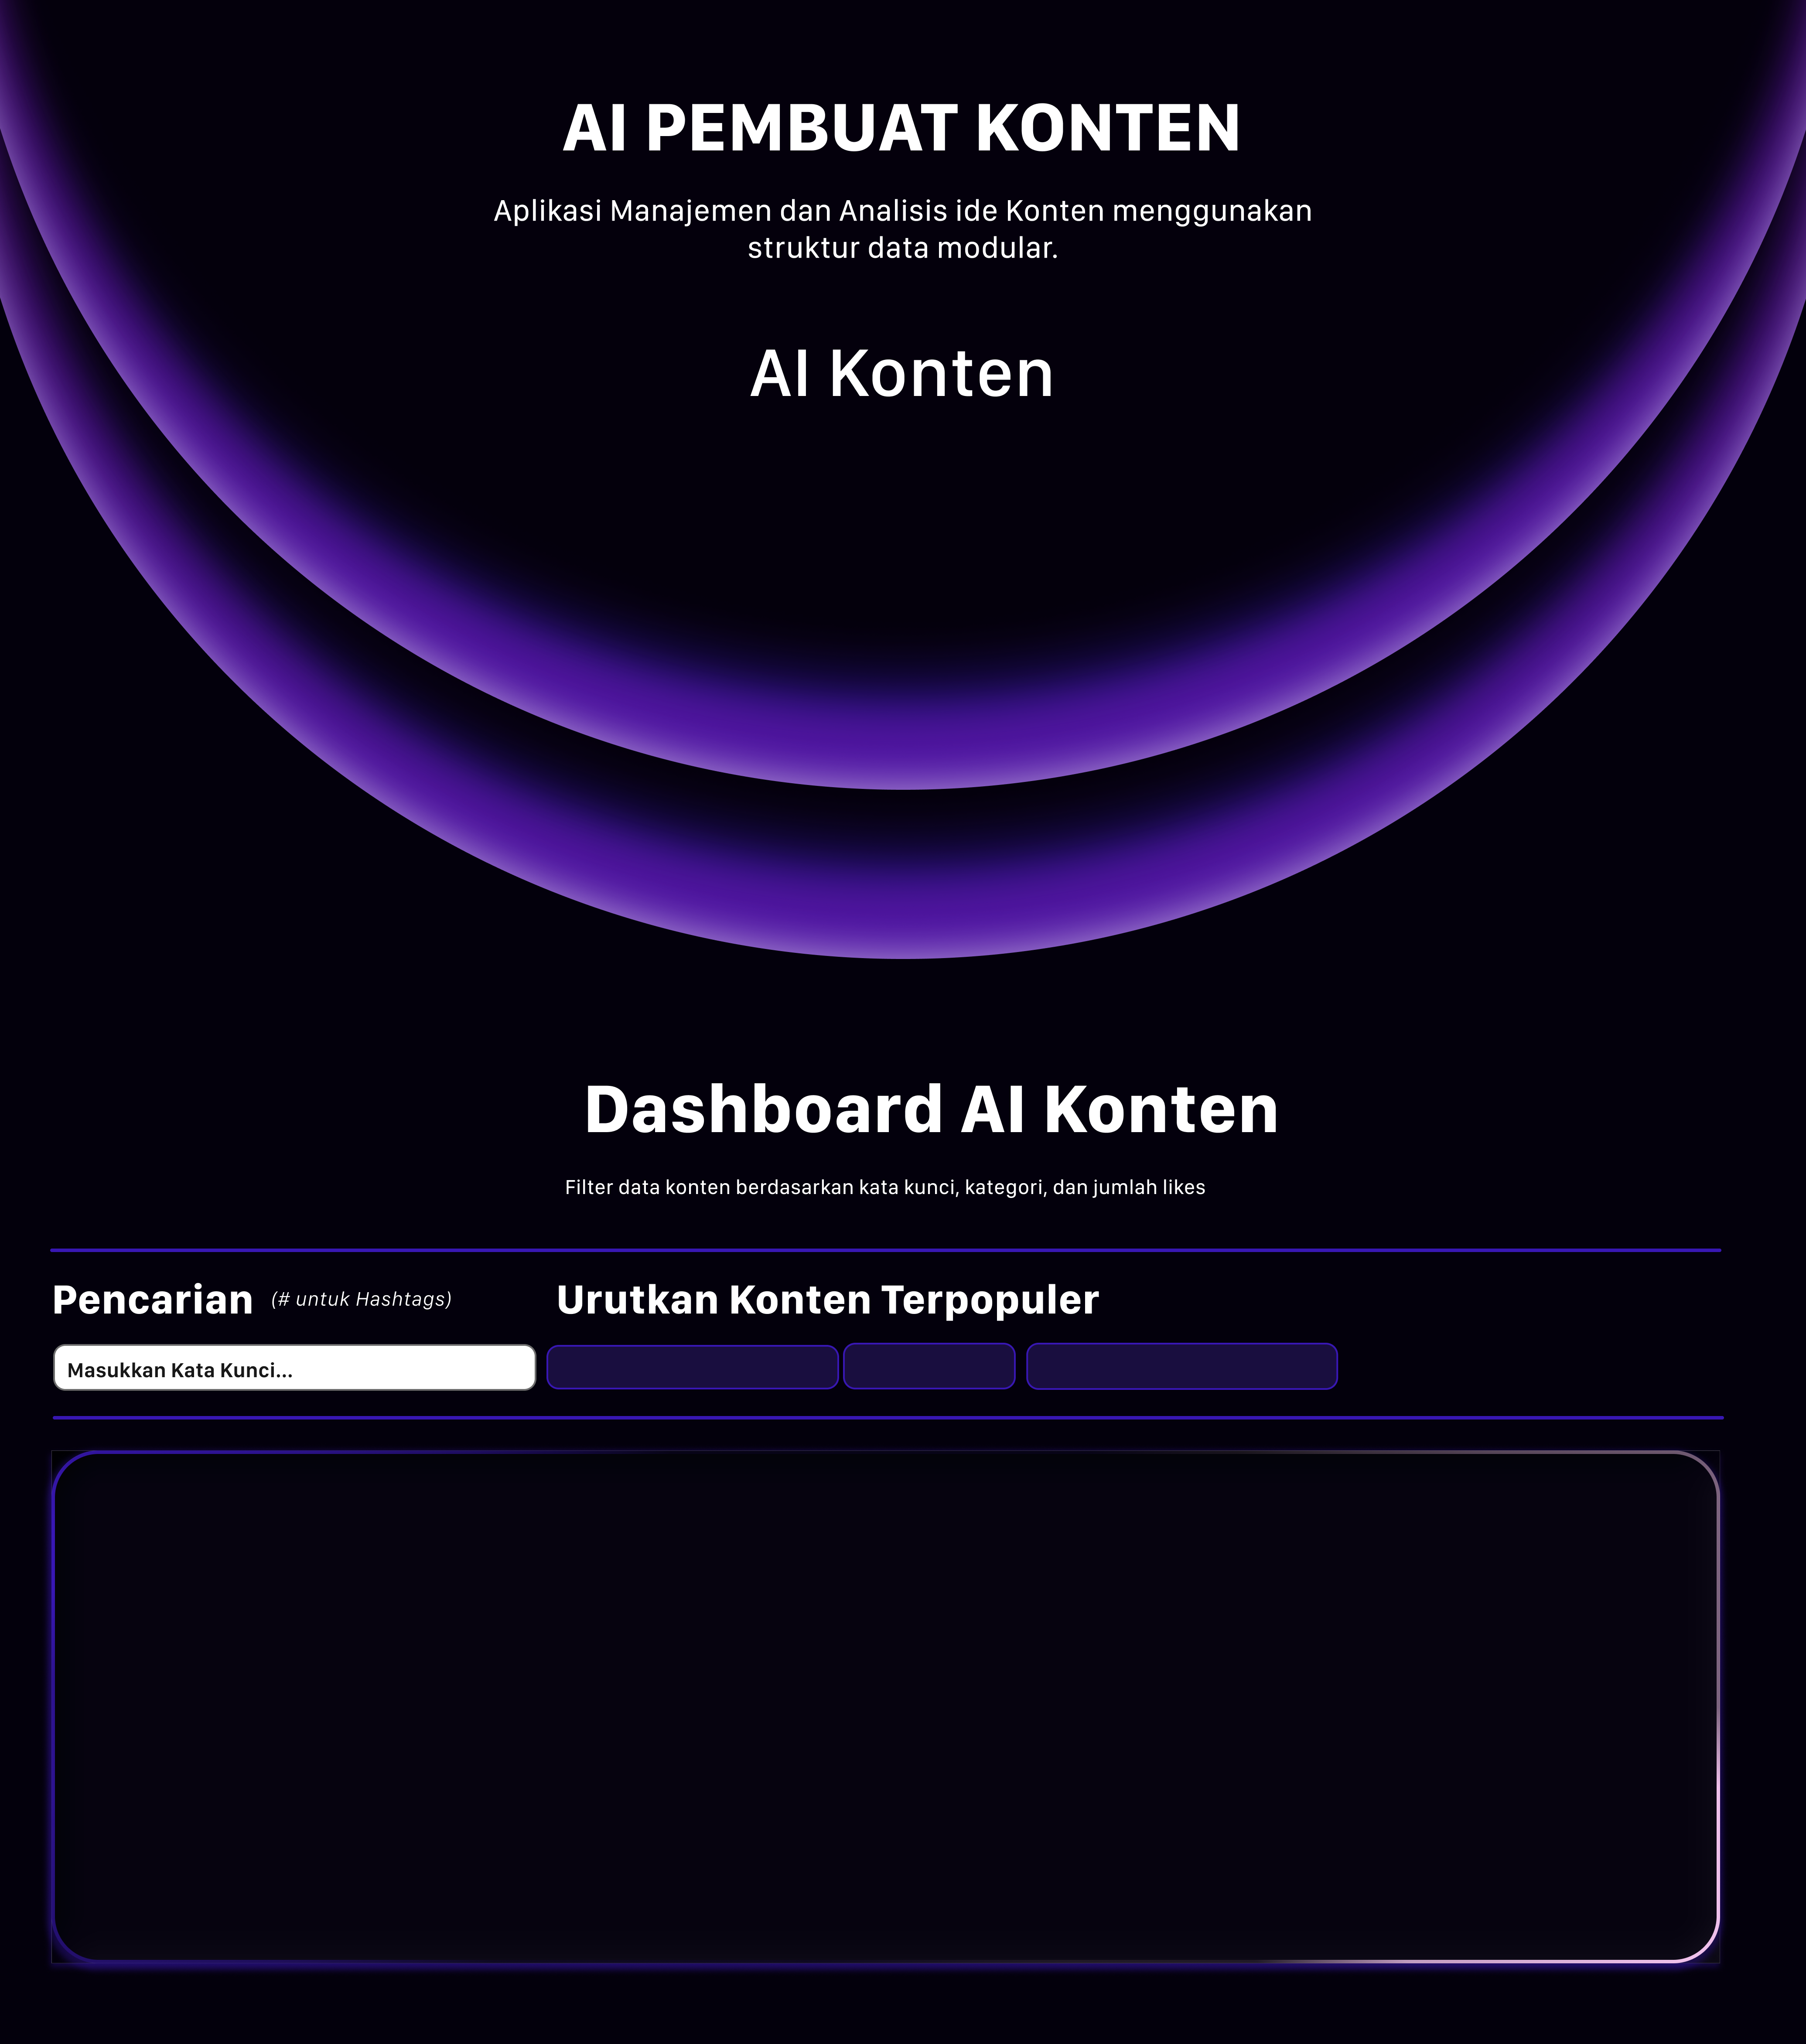
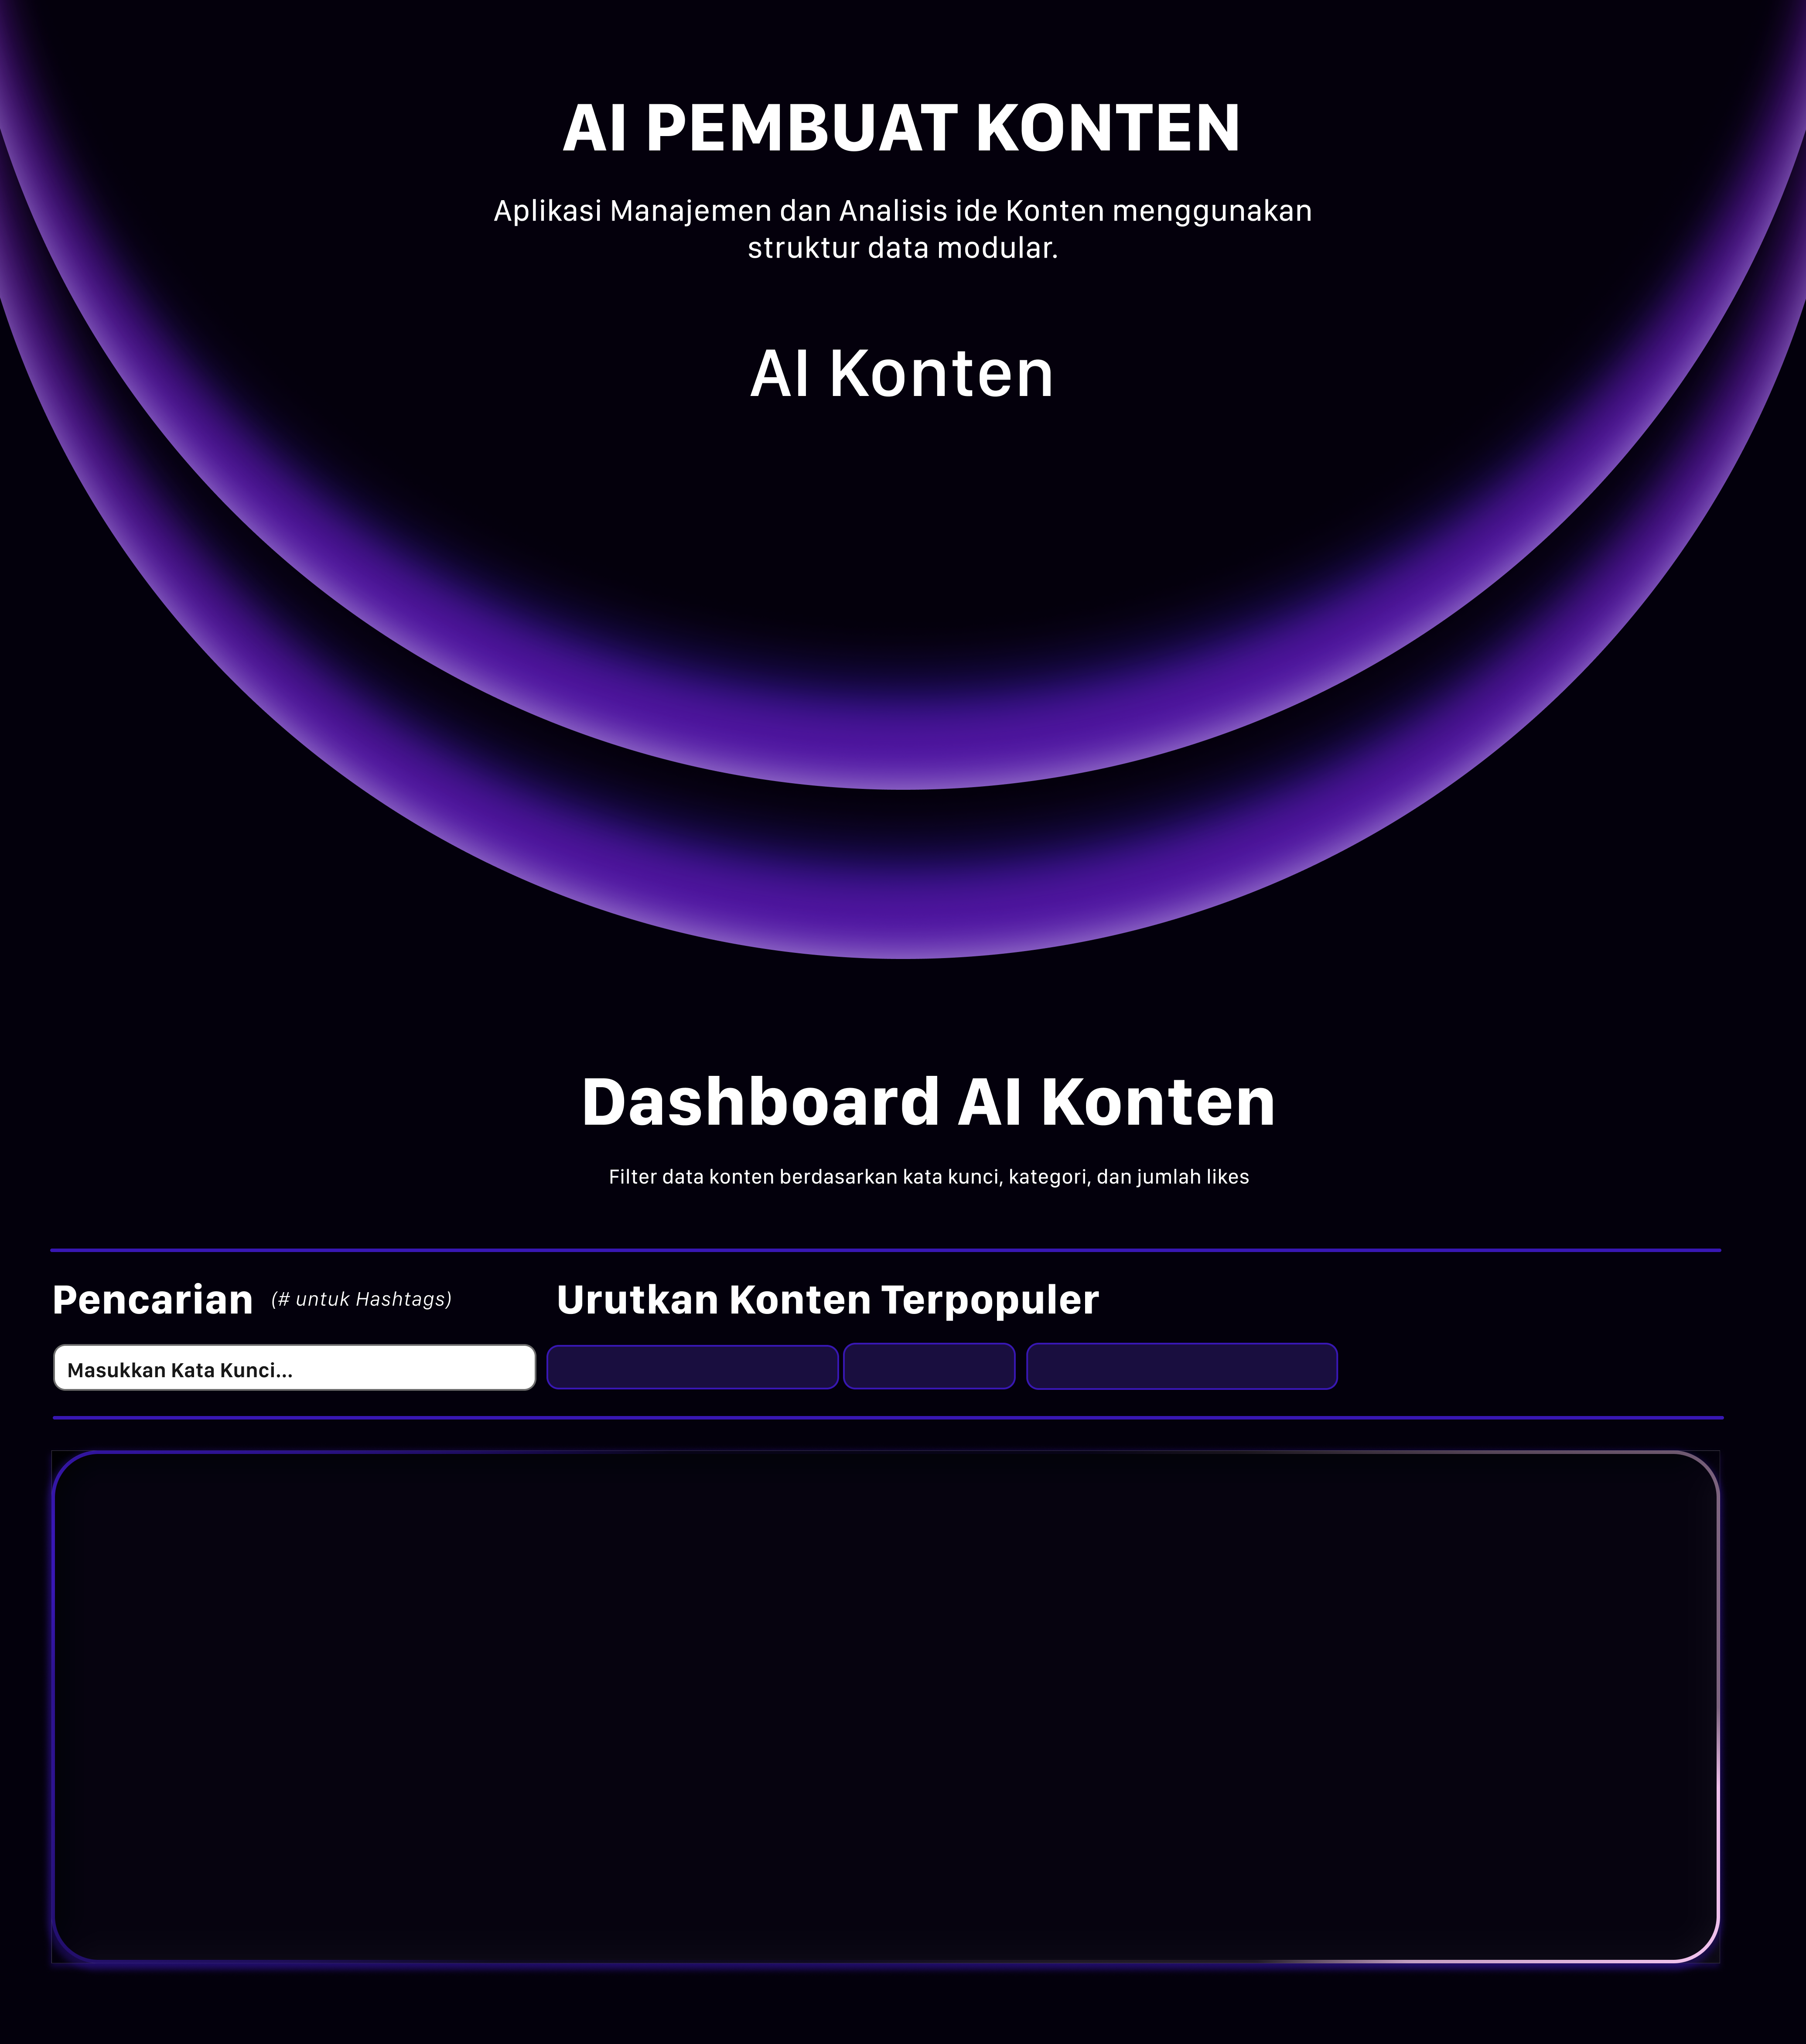
Add files via upload

Changed region(s): [[0.3115, 0.5295, 0.7165, 0.5918]]

diff --git a/Fiks.Tubes/main.py b/Fiks.Tubes/main.py
@@ -36,7 +36,7 @@ class TampilBackgroundScrollable:
         self.bg_admin = self.load_bg("background_admin.png")
         
         # 2. Load Gambar Tombol Kustom (.png)
-        self.img_btn_admin = self.load_icon("button_admin.png", ukuran=(150, 80))
+        self.img_btn_admin = self.load_icon("button_admin.png", ukuran=(150, 100))
         self.img_btn_user = self.load_icon("button_user.png", ukuran=(150, 100))
         self.img_btn_login = self.load_icon("button_login_user.png", ukuran=(230, 40))
         self.img_btn_sort_real = self.load_icon("button_sort.png", ukuran=(125, 25))
@@ -89,7 +89,7 @@ class TampilBackgroundScrollable:
                         fieldbackground="#0B071E",
                         borderwidth=0,
                         relief="flat",
-                        font=("Segoe UI", 10))
+                        font=("Sf Pro Display medium", 10,"normal"))
         
         # Efek saat baris data dipilih/diklik
         style.map("Treeview", background=[("selected", "#3B0066")])
@@ -98,7 +98,7 @@ class TampilBackgroundScrollable:
         style.configure("Treeview.Heading",
                         background="#1A1235",
                         foreground="white",
-                        font=("Segoe UI", 10, "bold"),
+                        font=("Sf Pro Display medium", 10, "normal"),
                         borderwidth=0)
         
         # Mengatur warna dasar Combobox via Ttk Style
@@ -203,10 +203,10 @@ class TampilBackgroundScrollable:
         if self.bg_login:
             page_canvas.create_image(0, 0, image=self.bg_login, anchor="nw")
             
-        entry_user = tk.Entry(self.container, font=("Segoe UI", 11), bd=0, bg="white", fg="black")
+        entry_user = tk.Entry(self.container, font=("Sf Pro Display medium", 11,"bold"), bd=0, bg="white", fg="black")
         page_canvas.create_window(500, 728, window=entry_user, width=230, height=26)
         
-        entry_pass = tk.Entry(self.container, font=("Segoe UI", 11), show="*", bd=0, bg="white", fg="black")
+        entry_pass = tk.Entry(self.container, font=("Sf Pro Display medium", 11,"bold"), show="*", bd=0, bg="white", fg="black")
         page_canvas.create_window(500, 775, window=entry_pass, width=230, height=26)
 
         def proses_masuk_aplikasi():
@@ -220,7 +220,7 @@ class TampilBackgroundScrollable:
                 messagebox.showerror("Gagal", "Username atau Password Admin salah!")
 
         btn_submit = tk.Button(self.container, text="Masuk Admin ➔]", bg="#3B0066", fg="white", 
-                               font=("Segoe UI", 10, "bold"), bd=0, cursor="hand2", command=proses_masuk_aplikasi)
+                               font=("Sf Pro Display medium", 10, "normal"), bd=0, cursor="hand2", command=proses_masuk_aplikasi)
         page_canvas.create_window(500, 835, window=btn_submit, width=230, height=40)
 
         def aksi_klik_sakelar_login():
@@ -260,7 +260,7 @@ class TampilBackgroundScrollable:
         tabel_user = self.buat_tabel_scroll_konten(self.container, page_canvas, x=35, y=758, width=910, height=240)
         self.isi_data_ke_tabel(tabel_user, self.data_sekarang)
 
-        entry_cari = tk.Entry(self.container, font=("Segoe UI", 11), bd=0, bg="white", fg="black")
+        entry_cari = tk.Entry(self.container, font=("Sf Pro Display medium", 11,"normal"), bd=0, bg="white", fg="black")
         page_canvas.create_window(160, 700, window=entry_cari, width=250, height=17)
         
         def fungsi_pencarian_realtime(event):
@@ -273,15 +273,15 @@ class TampilBackgroundScrollable:
             
         entry_cari.bind("<KeyRelease>", fungsi_pencarian_realtime)
 
-        combo_kat = ttk.Combobox(self.container, values=["Semua Kategori", "tips", "lifestyle", "productivity", "education", "health", "fashion", "finance", "relationship"], state="readonly", font=("Segoe UI", 8))
+        combo_kat = ttk.Combobox(self.container, values=["Semua Kategori", "tips", "lifestyle", "productivity", "education", "health", "fashion", "finance", "relationship"], state="readonly", font=("Sf Pro Display medium", 8,"normal"))
         combo_kat.set("Semua Kategori")
         page_canvas.create_window(385, 702, window=combo_kat, width=155, height=20)
         
-        combo_urut = ttk.Combobox(self.container, values=["Likes", "Reposts", "Shares"], state="readonly", font=("Segoe UI", 8))
+        combo_urut = ttk.Combobox(self.container, values=["Likes", "Reposts", "Shares"], state="readonly", font=("Sf Pro Display medium", 8,"normal"))
         combo_urut.set("Likes")
         page_canvas.create_window(515, 702, window=combo_urut, width=85, height=20)
         
-        combo_arah = ttk.Combobox(self.container, values=["Terbesar → Terkecil", "Terkecil → Terbesar"], state="readonly", font=("Segoe UI", 8))
+        combo_arah = ttk.Combobox(self.container, values=["Terbesar → Terkecil", "Terkecil → Terbesar"], state="readonly", font=("Sf Pro Display medium", 8,"normal"))
         combo_arah.set("Terbesar → Terkecil")
         page_canvas.create_window(655, 702, window=combo_arah, width=165, height=20)
 
@@ -294,9 +294,9 @@ class TampilBackgroundScrollable:
                 
             key_map = {"Likes": "like", "Reposts": "posting_ulang", "Shares": "share"}
             sort_key = key_map[combo_urut.get()]
-            is_reverse = True if "Terbesar" in combo_arah.get() else False
+            is_reverse = (combo_arah.get() == "Terbesar → Terkecil")
             
-            self.data_sekarang = algoritma.selection_sort(data_filter, sort_key, reverse=is_reverse)
+            self.data_sekarang = algoritma.sort_data(data_filter, sort_key, reverse=is_reverse)
             self.isi_data_ke_tabel(tabel_user, self.data_sekarang)
 
         def jalankan_reset_data():
@@ -324,12 +324,12 @@ class TampilBackgroundScrollable:
             else: self.mode_aktif = "admin"; self.buka_halaman_login()
 
         if self.img_btn_user:
-            btn_user_nav1 = page_canvas.create_image(500, 260, image=self.img_btn_user, anchor="center")
+            btn_user_nav1 = page_canvas.create_image(500, 290, image=self.img_btn_user, anchor="center")
             page_canvas.tag_bind(btn_user_nav1, "<Button-1>", lambda event: navigasi_dari_user())
             page_canvas.tag_bind(btn_user_nav1, "<Enter>", lambda event: page_canvas.config(cursor="hand2"))
             page_canvas.tag_bind(btn_user_nav1, "<Leave>", lambda event: page_canvas.config(cursor=""))
 
-            btn_user_nav2 = page_canvas.create_image(90, 540, image=self.img_btn_user, anchor="center")
+            btn_user_nav2 = page_canvas.create_image(90, 560, image=self.img_btn_user, anchor="center")
             page_canvas.tag_bind(btn_user_nav2, "<Button-1>", lambda event: navigasi_dari_user())
             page_canvas.tag_bind(btn_user_nav2, "<Enter>", lambda event: page_canvas.config(cursor="hand2"))
             page_canvas.tag_bind(btn_user_nav2, "<Leave>", lambda event: page_canvas.config(cursor=""))
@@ -356,26 +356,26 @@ class TampilBackgroundScrollable:
         tag_var     = tk.StringVar(value="#explorepage")
         cap_var     = tk.StringVar()
 
-        entry_add_judul = tk.Entry(self.container, font=("Segoe UI", 10), bd=0, bg="#190E3F", fg="white",  textvariable=judul_var)
+        entry_add_judul = tk.Entry(self.container, font=("Sf Pro Display medium", 10,"normal"), bd=0, bg="#190E3F", fg="white",  textvariable=judul_var)
         page_canvas.create_window(180, 744, window=entry_add_judul, width=120, height=18)
 
-        combo_add_kat = ttk.Combobox(self.container, textvariable=kat_var2, state="readonly", font=("Segoe UI", 10),
+        combo_add_kat = ttk.Combobox(self.container, textvariable=kat_var2, state="readonly", font=("Sf Pro Display medium", 10,"normal"),
                                      values=["tips", "lifestyle", "productivity", "education", "health", "fashion", "finance", "relationship"])
         page_canvas.create_window(390, 744, window=combo_add_kat, width=130, height=18)
 
-        entry_add_likes = tk.Entry(self.container, font=("Segoe UI", 10), bd=0, bg="#190E3F", fg="white",  textvariable=like_var)
+        entry_add_likes = tk.Entry(self.container, font=("Sf Pro Display medium", 10,"normal"), bd=0, bg="#190E3F", fg="white",  textvariable=like_var)
         page_canvas.create_window(135, 787, window=entry_add_likes, width=50, height=18)
 
-        entry_add_shares = tk.Entry(self.container, font=("Segoe UI", 10), bd=0, bg="#190E3F", fg="white",  textvariable=share_var)
+        entry_add_shares = tk.Entry(self.container, font=("Sf Pro Display medium", 10,"normal"), bd=0, bg="#190E3F", fg="white",  textvariable=share_var)
         page_canvas.create_window(278, 787, window=entry_add_shares, width=50, height=18)
 
-        entry_add_reposts = tk.Entry(self.container, font=("Segoe UI", 10), bd=0, bg="#190E3F", fg="white", textvariable=repost_var)
+        entry_add_reposts = tk.Entry(self.container, font=("Sf Pro Display medium", 10,"normal"), bd=0, bg="#190E3F", fg="white", textvariable=repost_var)
         page_canvas.create_window(425, 787, window=entry_add_reposts, width=50, height=18)
 
-        entry_add_tags = tk.Entry(self.container, font=("Segoe UI", 10), bd=0, bg="white", fg="black",  textvariable=tag_var)
+        entry_add_tags = tk.Entry(self.container, font=("Sf Pro Display medium", 10,"normal"), bd=0, bg="white", fg="black",  textvariable=tag_var)
         page_canvas.create_window(290, 827, window=entry_add_tags, width=310, height=18)
 
-        entry_add_caption = tk.Entry(self.container, font=("Segoe UI", 10), bd=0, bg="white", fg="black",  textvariable=cap_var)
+        entry_add_caption = tk.Entry(self.container, font=("Sf Pro Display medium", 10,"normal"), bd=0, bg="white", fg="black",  textvariable=cap_var)
         page_canvas.create_window(285, 880, window=entry_add_caption, width=310, height=40)
 
         def simpan_konten_baru():
@@ -430,26 +430,26 @@ class TampilBackgroundScrollable:
         cap_edit_var    = tk.StringVar()
 
         # Mengubah bg menjadi ungu gelap (#190E3F) dan fg menjadi putih (white)
-        entry_edit_judul = tk.Entry(self.container, font=("Segoe UI", 10), bd=0, bg="#190E3F", fg="white",  textvariable=judul_edit_var)
+        entry_edit_judul = tk.Entry(self.container, font=("Sf Pro Display medium", 10,"normal"), bd=0, bg="#190E3F", fg="white",  textvariable=judul_edit_var)
         page_canvas.create_window(650, 745, window=entry_edit_judul, width=120, height=18)
 
-        combo_edit_kat = ttk.Combobox(self.container, textvariable=kat_edit_var, state="readonly", font=("Segoe UI", 10),
+        combo_edit_kat = ttk.Combobox(self.container, textvariable=kat_edit_var, state="readonly", font=("Sf Pro Display medium", 10,"normal"),
                                       values=["tips", "lifestyle", "productivity", "education", "health", "fashion", "finance", "relationship"])
         page_canvas.create_window(860, 745, window=combo_edit_kat, width=130, height=18)
 
-        entry_edit_likes = tk.Entry(self.container, font=("Segoe UI", 10), bd=0, bg="#190E3F", fg="white",  textvariable=like_edit_var)
+        entry_edit_likes = tk.Entry(self.container, font=("Sf Pro Display medium", 10,"normal"), bd=0, bg="#190E3F", fg="white",  textvariable=like_edit_var)
         page_canvas.create_window(615, 787, window=entry_edit_likes, width=50, height=18)
 
-        entry_edit_shares = tk.Entry(self.container, font=("Segoe UI", 10), bd=0, bg="#190E3F", fg="white",  textvariable=share_edit_var)
+        entry_edit_shares = tk.Entry(self.container, font=("Sf Pro Display medium", 10,"normal"), bd=0, bg="#190E3F", fg="white",  textvariable=share_edit_var)
         page_canvas.create_window(753, 787, window=entry_edit_shares, width=50, height=18)
 
-        entry_edit_reposts = tk.Entry(self.container, font=("Segoe UI", 10), bd=0, bg="#190E3F", fg="white", textvariable=repost_edit_var)
+        entry_edit_reposts = tk.Entry(self.container, font=("Sf Pro Display medium", 10,"normal"), bd=0, bg="#190E3F", fg="white", textvariable=repost_edit_var)
         page_canvas.create_window(900, 787, window=entry_edit_reposts, width=50, height=18)
 
-        entry_edit_tags = tk.Entry(self.container, font=("Segoe UI", 10), bd=0, bg="white", fg="black",  textvariable=tag_edit_var)
+        entry_edit_tags = tk.Entry(self.container, font=("Sf Pro Display medium", 10,"normal"), bd=0, bg="white", fg="black",  textvariable=tag_edit_var)
         page_canvas.create_window(770, 827, window=entry_edit_tags, width=310, height=18)
 
-        entry_edit_caption = tk.Entry(self.container, font=("Segoe UI", 10), bd=0, bg="white", fg="black",  textvariable=cap_edit_var)
+        entry_edit_caption = tk.Entry(self.container, font=("Sf Pro Display medium", 10,"normal"), bd=0, bg="white", fg="black",  textvariable=cap_edit_var)
         page_canvas.create_window(770, 880, window=entry_edit_caption, width=310, height=40)
 
         def load_data_ke_form(*args):